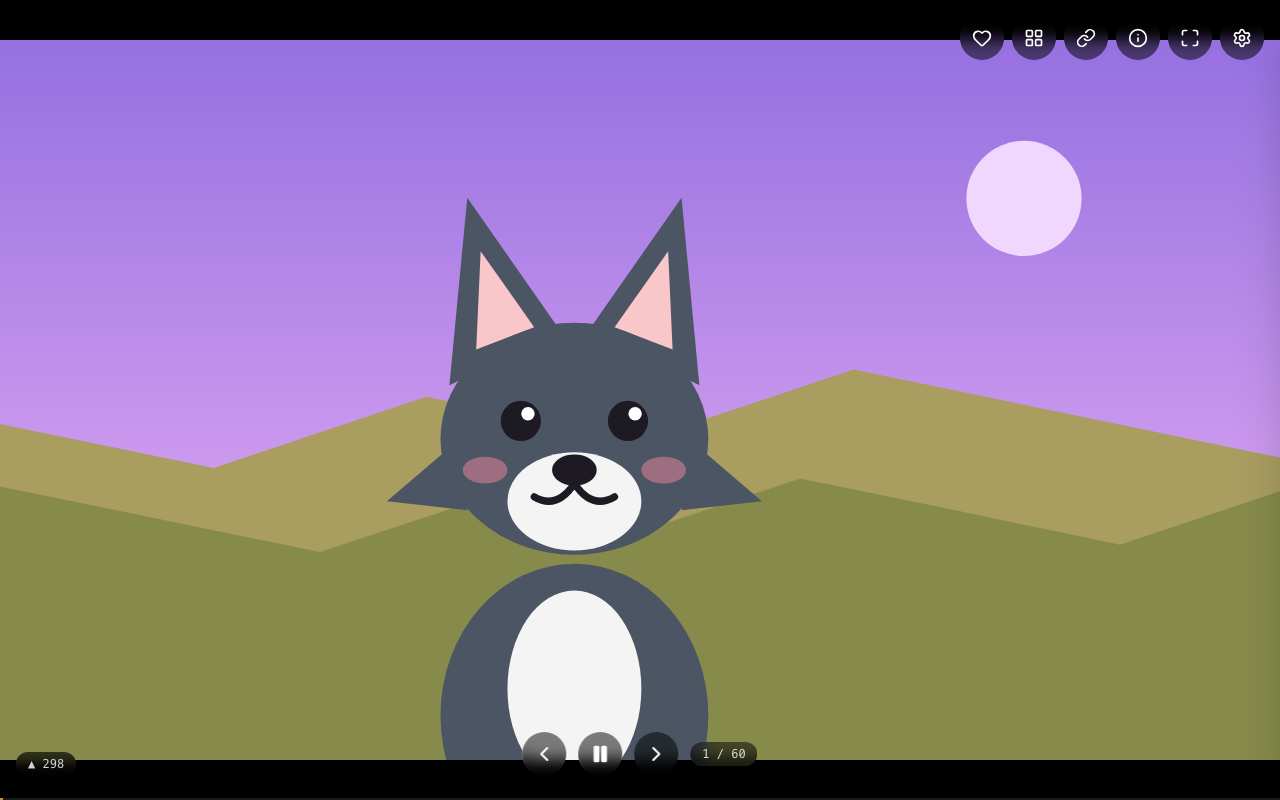
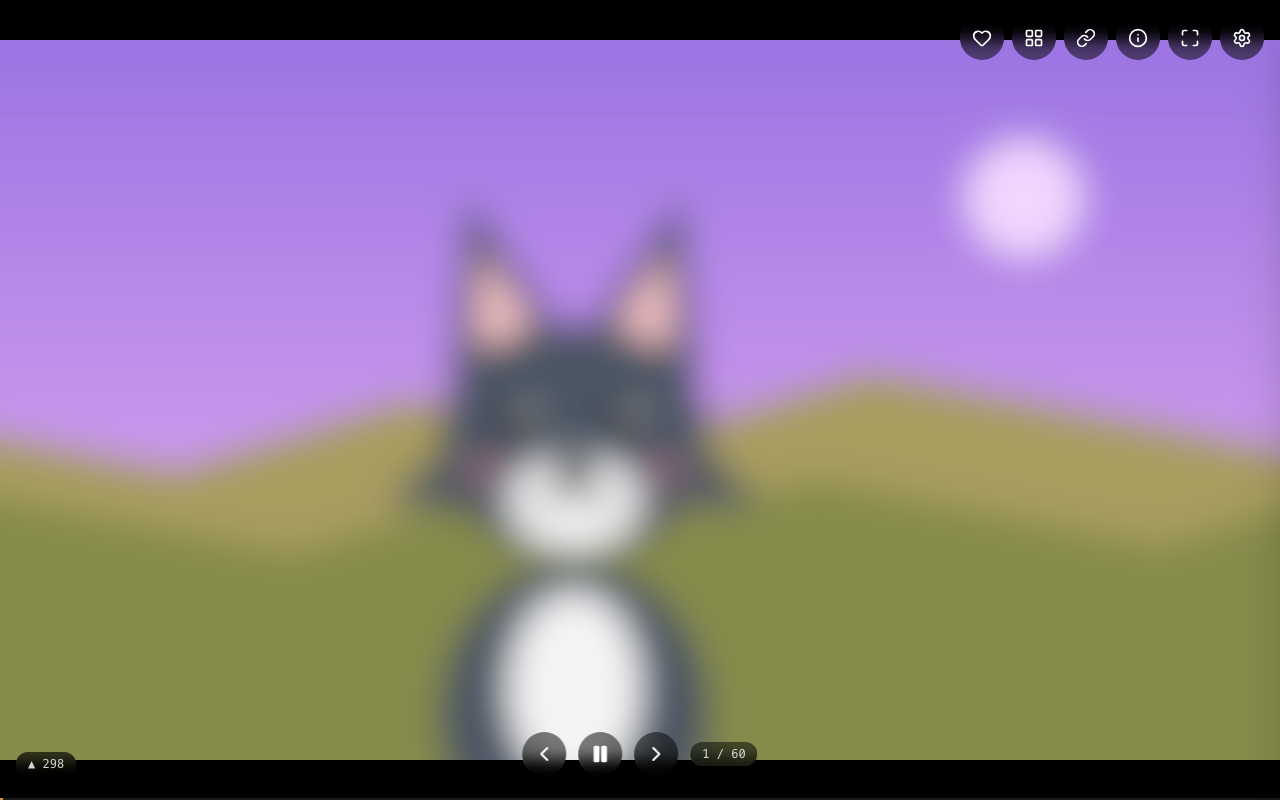
Blur the README demo art and use a plain wolf search

diff --git a/scripts/readme-screenshots/shots.ts b/scripts/readme-screenshots/shots.ts
@@ -67,7 +67,7 @@ ${ears}
 ${blush}${whiskers}`;
 }
 
-/** Sky gradient, sun or moon, rolling hills, and a character in front. */
+/** Sky gradient, sun or moon, rolling hills, and a character in front, all blurred. */
 function art(id: number): string {
   const [w, h] = SIZES[id % SIZES.length];
   const hue = Math.floor(hash(id) * 360);
@@ -75,15 +75,19 @@ function art(id: number): string {
   const sky1 = night ? `hsl(${hue},45%,12%)` : `hsl(${hue},65%,66%)`;
   const sky2 = night ? `hsl(${(hue + 40) % 360},40%,30%)` : `hsl(${(hue + 35) % 360},80%,84%)`;
   const sun = night ? "hsl(50,30%,92%)" : `hsl(${(hue + 20) % 360},95%,92%)`;
+  // Blurred like a censored preview: the README shows the app, not the art.
+  const blur = Math.min(w, h) * 0.025;
+  // Everything is drawn this far past the edges, so the blur has colour to pull in, not transparency.
+  const pad = Math.round(blur * 3);
   const ridge = (layer: number) => {
     const base = h * (0.6 + layer * 0.12);
-    const pts = [`0,${h}`];
+    const pts = [`${-pad},${h + pad}`];
     const steps = 6 + layer * 2;
     for (let i = 0; i <= steps; i++) {
       const y = base - hash(id * 13 + layer * 101 + i) * h * (0.16 - layer * 0.04);
-      pts.push(`${Math.round((i / steps) * w)},${Math.round(y)}`);
+      pts.push(`${Math.round(-pad + (i / steps) * (w + 2 * pad))},${Math.round(y)}`);
     }
-    pts.push(`${w},${h}`);
+    pts.push(`${w + pad},${h + pad}`);
     const light = night ? 10 + layer * 5 : 52 - layer * 10;
     return `<polygon points="${pts.join(" ")}" fill="hsl(${(hue + 150 + layer * 15) % 360},30%,${light}%)" stroke-linejoin="round"/>`;
   };
@@ -91,11 +95,14 @@ function art(id: number): string {
   const cx = w * (0.38 + hash(id + 9) * 0.24);
   const sunX = cx < w / 2 ? w * 0.8 : w * 0.2;
   return `<svg xmlns="http://www.w3.org/2000/svg" width="${w}" height="${h}" viewBox="0 0 ${w} ${h}">
-<defs><linearGradient id="s" x1="0" y1="0" x2="0" y2="1"><stop offset="0" stop-color="${sky1}"/><stop offset="1" stop-color="${sky2}"/></linearGradient></defs>
-<rect width="${w}" height="${h}" fill="url(#s)"/>
+<defs><linearGradient id="s" x1="0" y1="0" x2="0" y2="1"><stop offset="0" stop-color="${sky1}"/><stop offset="1" stop-color="${sky2}"/></linearGradient>
+<filter id="b" x="-20%" y="-20%" width="140%" height="140%"><feGaussianBlur stdDeviation="${blur.toFixed(1)}"/></filter></defs>
+<g filter="url(#b)">
+<rect x="${-pad}" y="${-pad}" width="${w + 2 * pad}" height="${h + 2 * pad}" fill="url(#s)"/>
 <circle cx="${Math.round(sunX)}" cy="${Math.round(h * 0.22)}" r="${Math.round(Math.min(w, h) * 0.08)}" fill="${sun}"/>
 ${ridge(0)}${ridge(1)}
 <g transform="translate(${Math.round(cx - 50 * scale)},${Math.round(h - 128 * scale)}) scale(${scale.toFixed(3)})">${character(id)}</g>
+</g>
 </svg>`;
 }
 
@@ -164,7 +171,7 @@ const hideControls = async (page: Page) => {
 
 test("settings panel", async ({ page }) => {
   await setup(page, {
-    search: { tags: "fox anthro -feral score:>50", blacklist: "gore\nscat\nyoung -rating:s" },
+    search: { tags: "wolf", blacklist: "gore\nscat" },
     playback: { intervalSec: 8 },
     sections: { filters: true, date: false, saved: false, blacklist: false, playback: false },
   });
@@ -177,7 +184,7 @@ test("settings panel", async ({ page }) => {
 });
 
 test("classic slideshow with controls", async ({ page }) => {
-  await setup(page, { search: { tags: "anthro solo" }, creds: { username: "wolfie", apiKey: "goodkey" } });
+  await setup(page, { search: { tags: "wolf" }, creds: { username: "wolfie", apiKey: "goodkey" } });
   await page.goto("/");
   await play(page);
   await showControls(page);
@@ -185,7 +192,7 @@ test("classic slideshow with controls", async ({ page }) => {
 });
 
 test("info overlay", async ({ page }) => {
-  await setup(page, { search: { tags: "anthro solo" } });
+  await setup(page, { search: { tags: "wolf" } });
   await page.goto("/");
   await play(page);
   await page.keyboard.press("i");
@@ -195,7 +202,7 @@ test("info overlay", async ({ page }) => {
 });
 
 test("gallery", async ({ page }) => {
-  await setup(page, { search: { tags: "anthro solo" } });
+  await setup(page, { search: { tags: "wolf" } });
   await page.goto("/");
   await play(page);
   await page.keyboard.press("g");
@@ -206,7 +213,7 @@ test("gallery", async ({ page }) => {
 
 for (const style of ["prints", "kenburns", "collage", "reflections"] as const) {
   test(`style ${style}`, async ({ page }) => {
-    await setup(page, { search: { tags: "anthro solo" }, playback: { style } });
+    await setup(page, { search: { tags: "wolf" }, playback: { style } });
     await page.goto("/");
     await play(page);
     if (style === "collage") {

diff --git a/README.md b/README.md
@@ -8,7 +8,7 @@ Live at **<https://e621.cumdump.dog>**. Everything runs in your browser and talk
 
 ![Slideshow playing, with the controls showing](docs/screenshots/classic.png)
 
-> Screenshots use generated placeholder characters against a mocked e621, never real posts.
+> Screenshots use generated, blurred placeholder characters against a mocked e621, never real posts.
 > See [Regenerating the screenshots](#regenerating-the-screenshots).
 
 ## Quick start
@@ -301,5 +301,5 @@ pnpm screenshots
 ```
 
 Runs [`scripts/readme-screenshots/shots.ts`](scripts/readme-screenshots/shots.ts) against the e2e mock
-with generated SVG characters and writes `docs/screenshots/*.png`. It reuses a dev server on port 3621
+with generated, blurred SVG characters and writes `docs/screenshots/*.png`. It reuses a dev server on port 3621
 if one is running.
